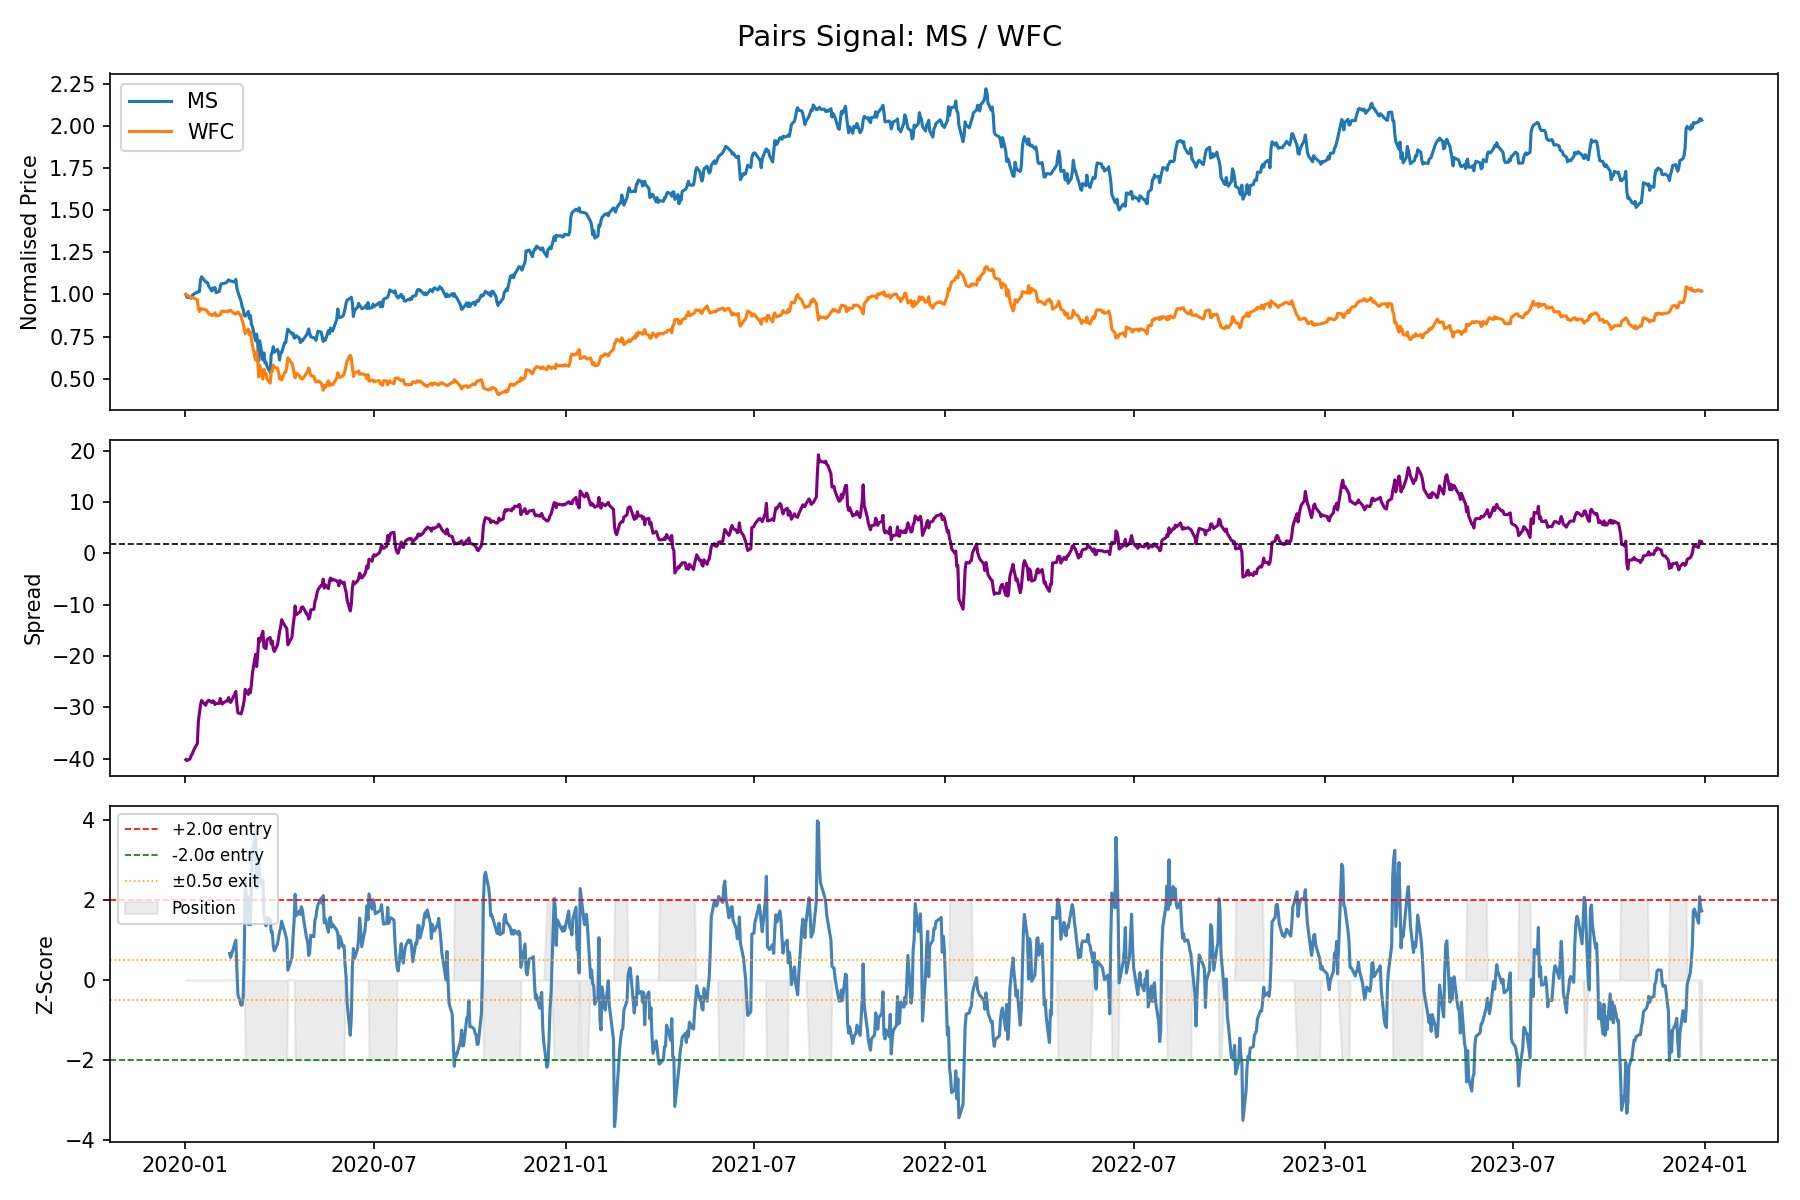
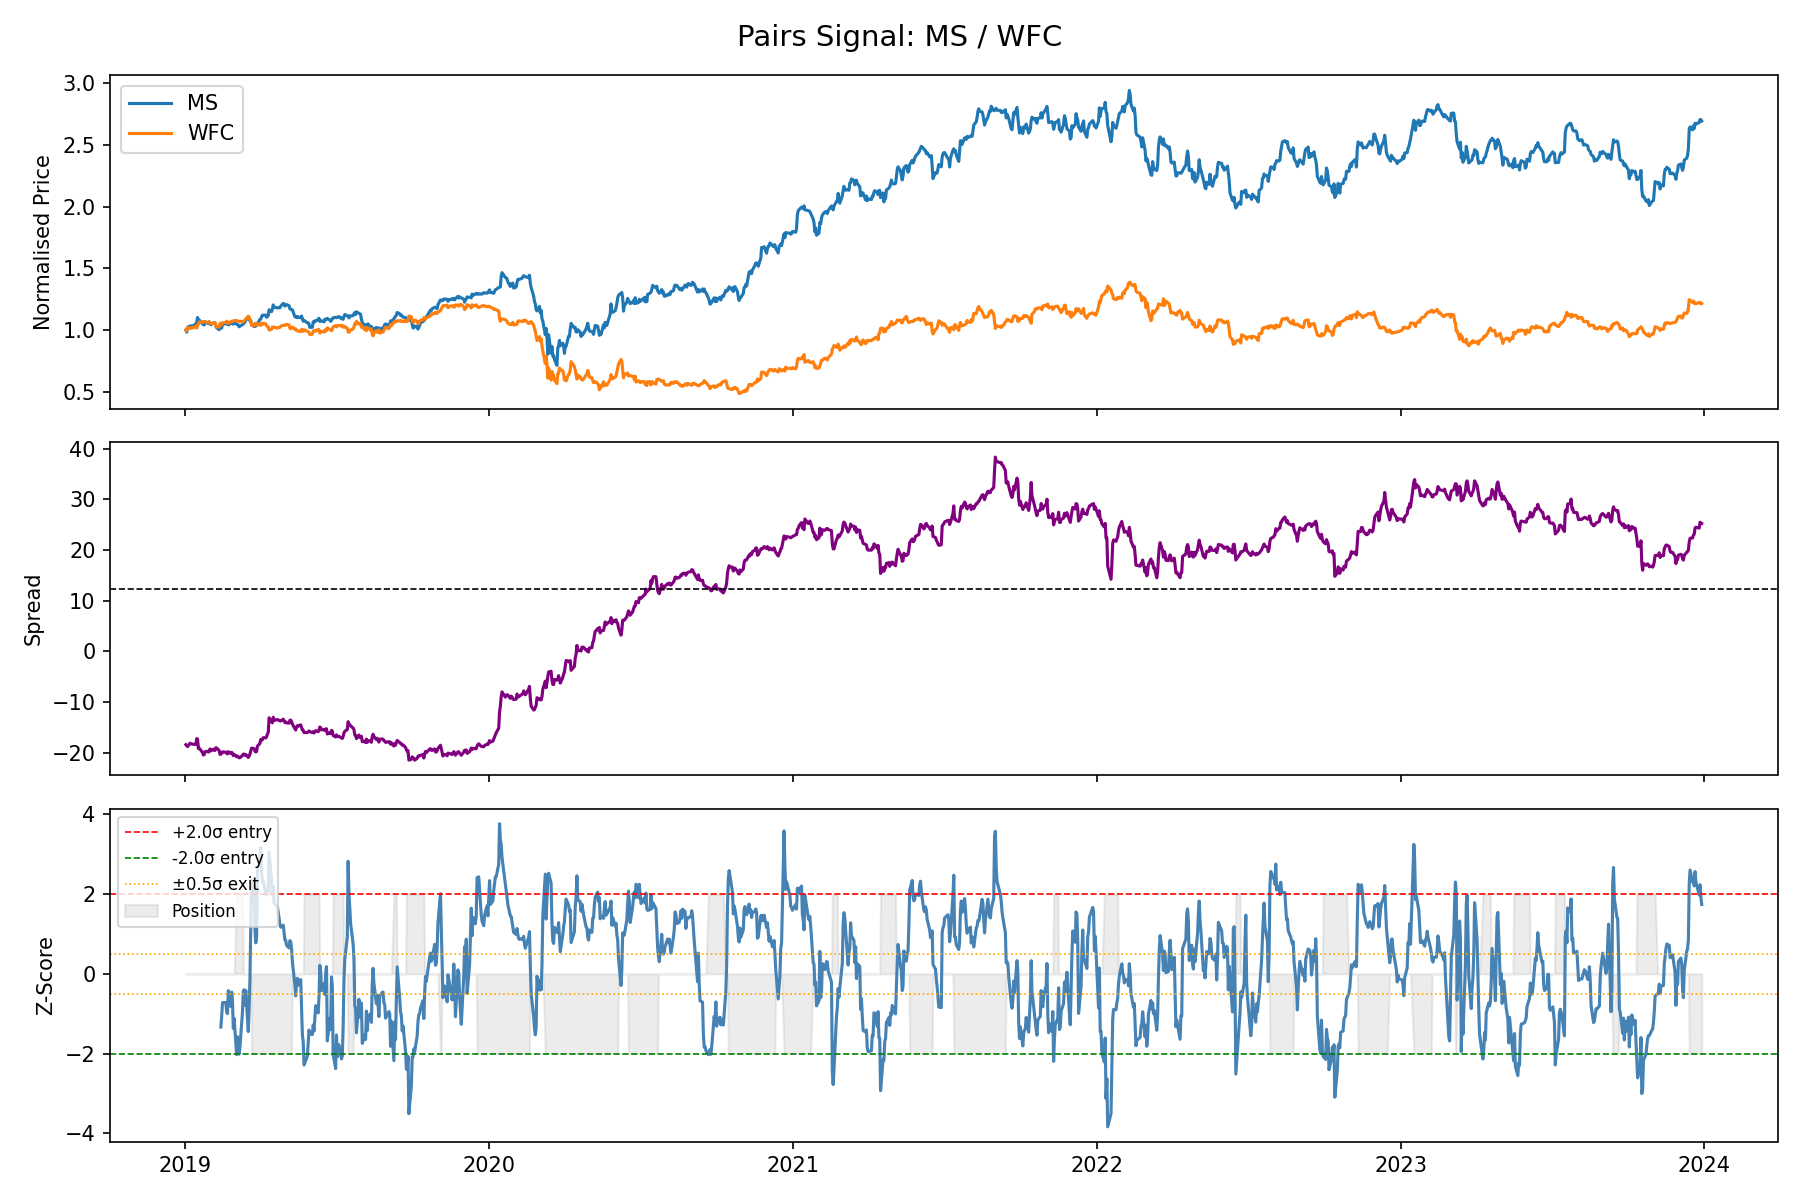
Kept only BAC/PNC and GS/MS pairs due to results

diff --git a/signals.py b/signals.py
@@ -5,50 +5,32 @@ from statsmodels.regression.linear_model import OLS
 from statsmodels.tools import add_constant
 from data import download_prices
 
-# The pairs we selected
 PAIRS = [
-    ('MS',  'WFC'),
-    ('KO',  'PEP'),
+    ('BAC', 'PNC'),
+    ('GS',  'MS'),
 ]
 
-# Signal parameters
-WINDOW      = 30   # rolling window for z-score (days)
-ENTRY_Z     =  2.0 # open a trade when z-score exceeds this
-EXIT_Z      =  0.5 # close the trade when z-score reverts to this
+WINDOW  = 30
+ENTRY_Z = 2.0
+EXIT_Z  = 0.5
 
 
 def compute_spread(s1, s2):
-    """
-    Regress s1 on s2 to find the hedge ratio.
-    Spread = s1 - hedge_ratio * s2
-    This gives us a (hopefully) stationary series to trade.
-    """
-    model = OLS(s1, add_constant(s2)).fit()
+    model       = OLS(s1, add_constant(s2)).fit()
     hedge_ratio = model.params.iloc[1]
-    spread = s1 - hedge_ratio * s2
+    spread      = s1 - hedge_ratio * s2
     return spread, hedge_ratio
 
 
 def compute_zscore(spread, window=WINDOW):
-    """
-    Rolling z-score of the spread.
-    z = (spread - rolling_mean) / rolling_std
-    Tells us how many standard deviations away from 'normal' we are.
-    """
-    mean = spread.rolling(window).mean()
-    std  = spread.rolling(window).std()
+    mean   = spread.rolling(window).mean()
+    std    = spread.rolling(window).std()
     zscore = (spread - mean) / std
     return zscore
 
 
 def generate_signals(zscore, entry_z=ENTRY_Z, exit_z=EXIT_Z):
-    """
-    Signal logic:
-      +1 = long the spread  (z-score too low,  spread will rise)
-      -1 = short the spread (z-score too high, spread will fall)
-       0 = flat (no position)
-    """
-    signal = pd.Series(0, index=zscore.index)
+    signal   = pd.Series(0, index=zscore.index)
     position = 0
 
     for i in range(len(zscore)):
@@ -58,17 +40,17 @@ def generate_signals(zscore, entry_z=ENTRY_Z, exit_z=EXIT_Z):
 
         if position == 0:
             if z < -entry_z:
-                position = 1    # spread too low, go long
+                position = 1
             elif z > entry_z:
-                position = -1   # spread too high, go short
+                position = -1
 
         elif position == 1:
             if z > -exit_z:
-                position = 0    # spread reverted, exit
+                position = 0
 
         elif position == -1:
             if z < exit_z:
-                position = 0    # spread reverted, exit
+                position = 0
 
         signal.iloc[i] = position
 
@@ -80,42 +62,40 @@ def plot_pair(prices, pair):
     s1, s2 = prices[s1_name], prices[s2_name]
 
     spread, hedge_ratio = compute_spread(s1, s2)
-    zscore  = compute_zscore(spread)
-    signal  = generate_signals(zscore)
+    zscore              = compute_zscore(spread)
+    signal              = generate_signals(zscore)
 
-    print(f"\n{s1_name}/{s2_name} — hedge ratio: {hedge_ratio:.4f}")
+    print(f"{s1_name}/{s2_name} — hedge ratio: {hedge_ratio:.4f}")
 
     fig, axes = plt.subplots(3, 1, figsize=(12, 8), sharex=True)
     fig.suptitle(f"Pairs Signal: {s1_name} / {s2_name}", fontsize=14)
 
-    # Plot 1: Normalised prices
     axes[0].plot(s1 / s1.iloc[0], label=s1_name)
     axes[0].plot(s2 / s2.iloc[0], label=s2_name)
     axes[0].set_ylabel("Normalised Price")
     axes[0].legend()
 
-    # Plot 2: Spread
     axes[1].plot(spread, color='purple')
     axes[1].axhline(spread.mean(), color='black', linestyle='--', linewidth=0.8)
     axes[1].set_ylabel("Spread")
 
-    # Plot 3: Z-score + signals
     axes[2].plot(zscore, color='steelblue')
-    axes[2].axhline( ENTRY_Z, color='red',   linestyle='--', linewidth=0.8, label=f'+{ENTRY_Z}σ entry')
-    axes[2].axhline(-ENTRY_Z, color='green', linestyle='--', linewidth=0.8, label=f'-{ENTRY_Z}σ entry')
-    axes[2].axhline( EXIT_Z,  color='orange',linestyle=':',  linewidth=0.8)
-    axes[2].axhline(-EXIT_Z,  color='orange',linestyle=':',  linewidth=0.8, label=f'±{EXIT_Z}σ exit')
+    axes[2].axhline( ENTRY_Z, color='red',    linestyle='--', linewidth=0.8, label=f'+{ENTRY_Z}σ entry')
+    axes[2].axhline(-ENTRY_Z, color='green',  linestyle='--', linewidth=0.8, label=f'-{ENTRY_Z}σ entry')
+    axes[2].axhline( EXIT_Z,  color='orange', linestyle=':',  linewidth=0.8)
+    axes[2].axhline(-EXIT_Z,  color='orange', linestyle=':',  linewidth=0.8, label=f'±{EXIT_Z}σ exit')
     axes[2].fill_between(zscore.index, signal * ENTRY_Z, 0, alpha=0.15, color='gray', label='Position')
     axes[2].set_ylabel("Z-Score")
     axes[2].legend(fontsize=8)
 
     plt.tight_layout()
     plt.savefig(f"signal_{s1_name}_{s2_name}.png", dpi=150)
-    plt.show()
-    print(f"  Chart saved: signal_{s1_name}_{s2_name}.png")
+    plt.close()
+    print(f"  Saved: signal_{s1_name}_{s2_name}.png")
 
 
 if __name__ == "__main__":
+    # Download data ONCE and reuse for all pairs
     prices = download_prices()
 
     for pair in PAIRS: